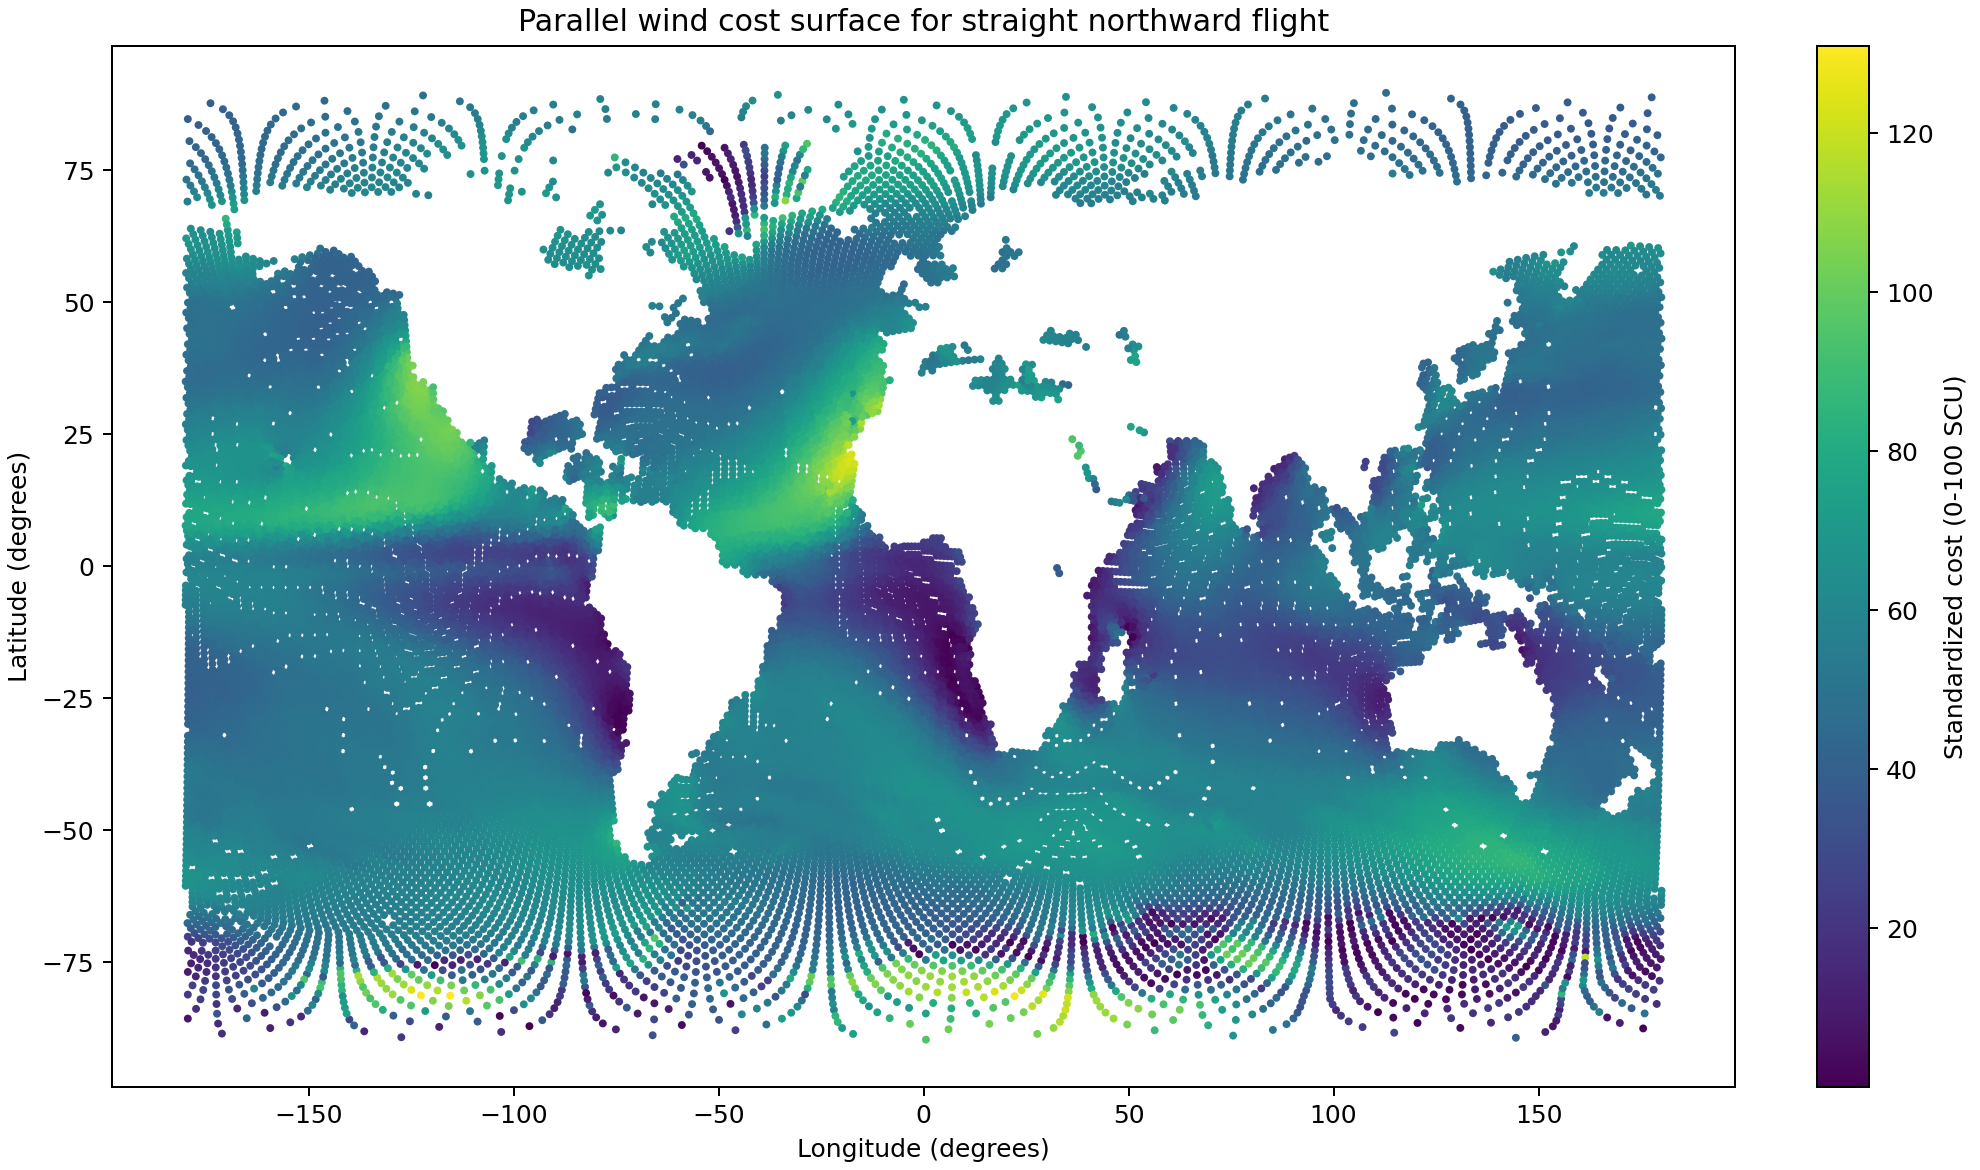
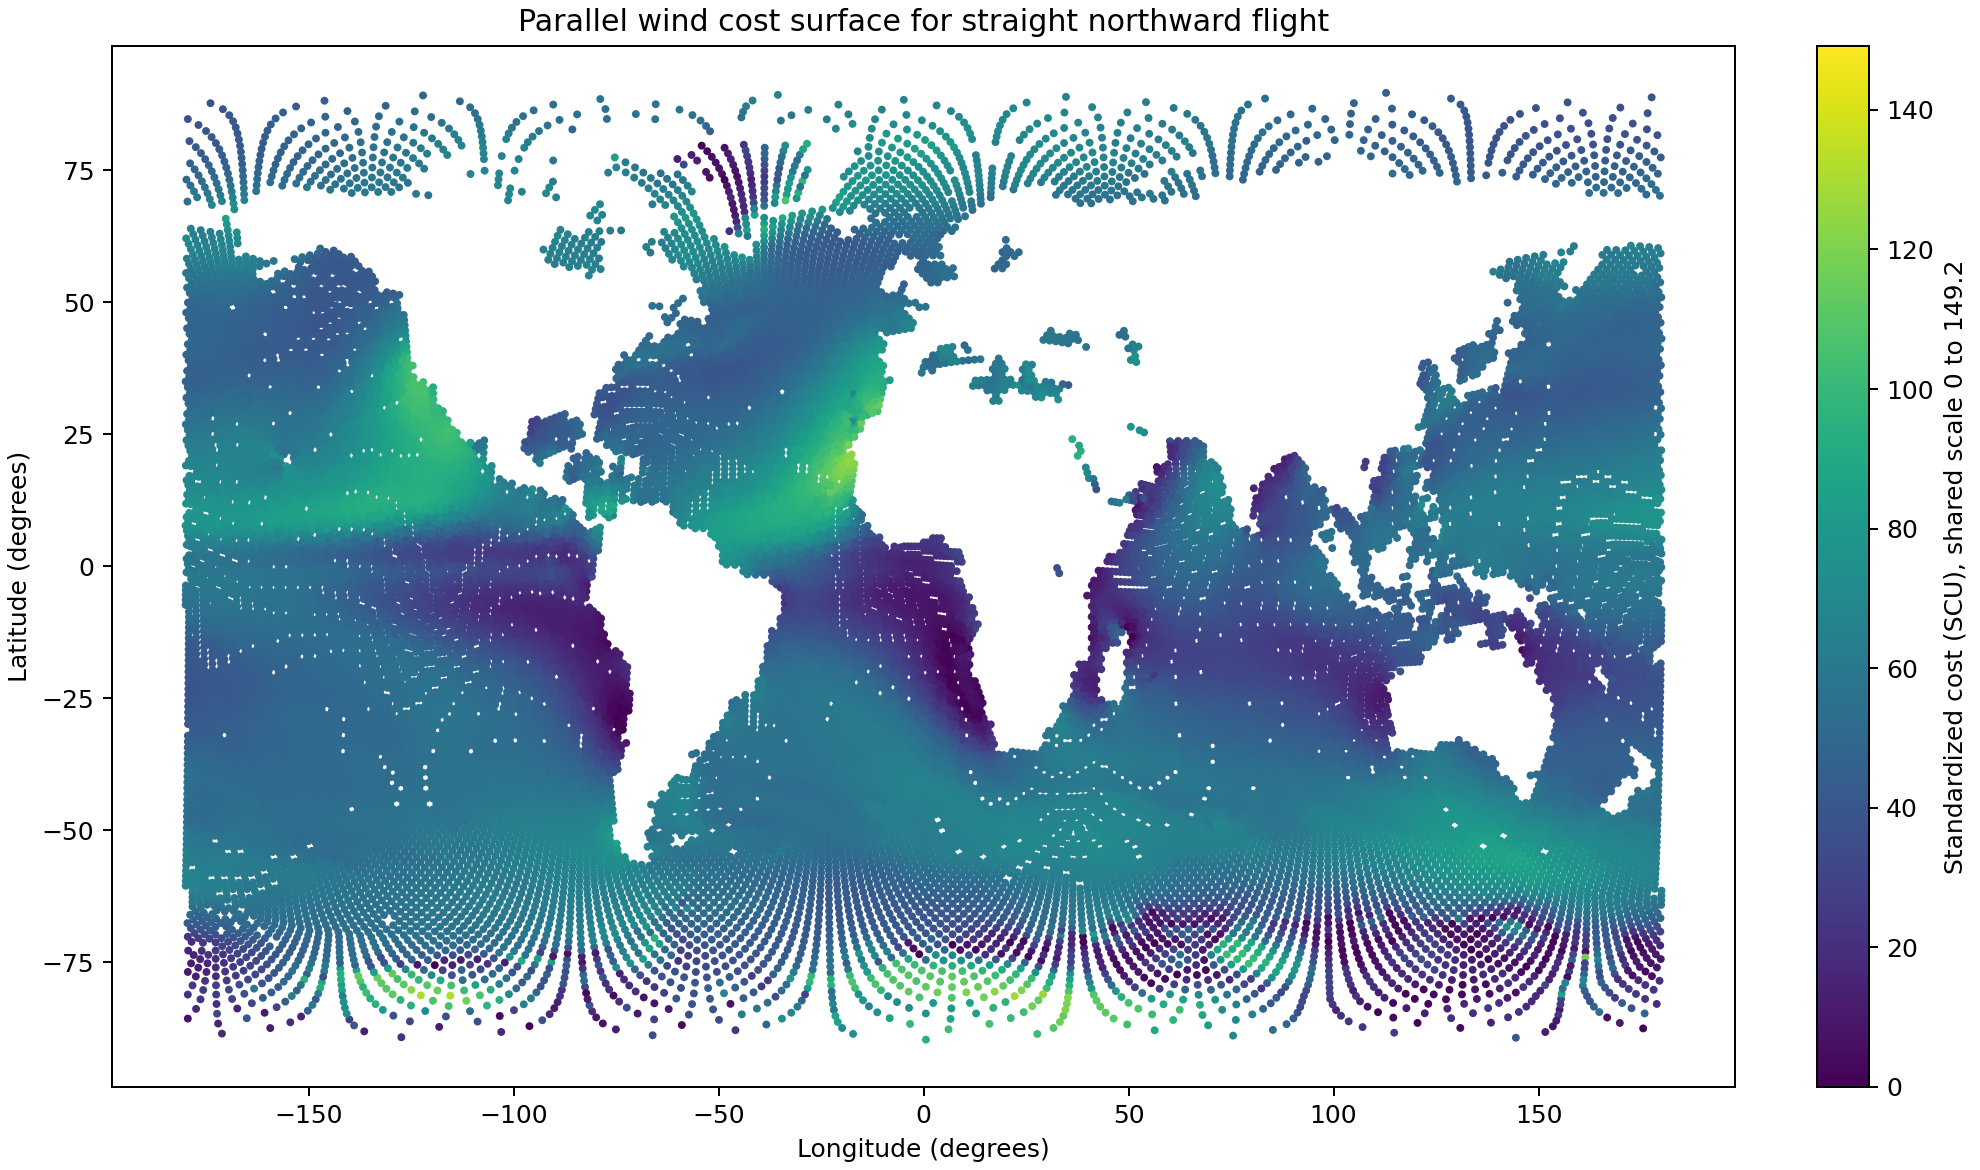
Unify component map support and scales

diff --git a/src/scripts/11_compute_h3_cost_components.py b/src/scripts/11_compute_h3_cost_components.py
@@ -95,10 +95,22 @@ def draw_component_map(
     output_path: Path,
     title: str,
     colorbar_label: str,
+    vmin: float,
+    vmax: float,
     cmap: str = "viridis",
 ) -> None:
     fig, ax = plt.subplots(figsize=(11, 6.5), constrained_layout=True)
-    sc = ax.scatter(df["lon"], df["lat"], c=df[value_col], s=10, cmap=cmap, linewidths=0)
+    plot_df = df.dropna(subset=[value_col]).copy()
+    sc = ax.scatter(
+        plot_df["lon"],
+        plot_df["lat"],
+        c=plot_df[value_col],
+        s=10,
+        cmap=cmap,
+        linewidths=0,
+        vmin=vmin,
+        vmax=vmax,
+    )
     ax.set_title(title)
     ax.set_xlabel("Longitude (degrees)")
     ax.set_ylabel("Latitude (degrees)")
@@ -200,11 +212,12 @@ def main() -> None:
     fig.savefig(SCATTER_PATH, dpi=150)
     plt.close(fig)
 
-    # Component maps at cell level. For wind maps, use a straight northward heading.
+    # Component maps at cell level. For visualization, use the wind footprint as the support mask.
     northward_support = env["v10"]
     northward_parallel_raw = np.abs(northward_support - percentile_99(northward_support))
     northward_crosswind_raw = np.abs(env["u10"])
     env_map = env[["h3_cell", "lon", "lat", "u10", "v10", "chlor_a"]].copy()
+    env_map["has_wind_support"] = ~(env_map[["u10", "v10"]].isna().all(axis=1))
     env_map["parallel_wind_cost_northward_raw"] = northward_parallel_raw
     env_map["crosswind_cost_northward_raw"] = northward_crosswind_raw
     northward_edge_distance = select_northward_edge_distance(out)
@@ -220,38 +233,68 @@ def main() -> None:
     env_map["distance_cost_std"] = standardize_to_100(env_map["northward_edge_distance_km"].fillna(0.0))
     env_map["food_cost_std"] = standardize_to_100(env_map["food_cost_raw"])
 
+    for col in [
+        "parallel_wind_cost_northward_std",
+        "crosswind_cost_northward_std",
+        "distance_cost_std",
+        "food_cost_std",
+    ]:
+        env_map.loc[~env_map["has_wind_support"], col] = np.nan
+
+    map_max = float(
+        np.nanmax(
+            env_map[
+                [
+                    "parallel_wind_cost_northward_std",
+                    "crosswind_cost_northward_std",
+                    "distance_cost_std",
+                    "food_cost_std",
+                ]
+            ].to_numpy()
+        )
+    )
+
     draw_component_map(
         env_map,
         "parallel_wind_cost_northward_std",
         MAP_WIND_PATH,
         "Parallel wind cost surface for straight northward flight",
-        "Standardized cost (0-100 SCU)",
+        f"Standardized cost (SCU), shared scale 0 to {map_max:.1f}",
+        0.0,
+        map_max,
     )
     draw_component_map(
         env_map,
         "crosswind_cost_northward_std",
         MAP_CROSSWIND_PATH,
         "Crosswind cost surface for straight northward flight",
-        "Standardized cost (0-100 SCU)",
+        f"Standardized cost (SCU), shared scale 0 to {map_max:.1f}",
+        0.0,
+        map_max,
     )
     draw_component_map(
         env_map,
         "distance_cost_std",
         MAP_DISTANCE_PATH,
         "Distance cost surface from outgoing edge closest to north",
-        "Standardized cost (0-100 SCU), based on edge distance in km",
+        f"Standardized cost (SCU), shared scale 0 to {map_max:.1f}",
+        0.0,
+        map_max,
     )
     draw_component_map(
         env_map,
         "food_cost_std",
         MAP_FOOD_PATH,
         "Food cost surface from chlorophyll-a",
-        "Standardized cost (0-100 SCU)",
+        f"Standardized cost (SCU), shared scale 0 to {map_max:.1f}",
+        0.0,
+        map_max,
     )
 
     legacy_ref = out["legacy_constant_distance_reference"].iloc[0]
     zero_chla_count = int((env["chlor_a"] <= 0).sum())
     positive_floor = float(env.loc[env["chlor_a"] > 0, "chlor_a"].min()) if (env["chlor_a"] > 0).any() else 1e-6
+    missing_support_count = int((~env_map["has_wind_support"]).sum())
     report = f'''# Compute H3 cost components
 
 ## Question
@@ -279,6 +322,8 @@ The corrected implementation now:
 Audit values:
 - zero or non-positive chlorophyll cells in H3 table: **{zero_chla_count}**
 - positive chlorophyll floor used for the log transform: **{positive_floor:.8f}**
+- cells outside the common wind-supported map footprint: **{missing_support_count}**
+- shared map color scale maximum: **{map_max:.3f} SCU**
 
 ## Method
 - compute directional edge costs for parallel wind, crosswind, true distance, and food
@@ -286,6 +331,8 @@ Audit values:
 - additionally produce four cell-level component maps for transparency
 - for the two wind component maps, assume a bird flying in a straight northward direction everywhere
 - for the distance map, assign to each cell the true distance of the outgoing edge whose bearing is closest to north
+- for visualization only, use the wind-data footprint as a common support mask across all four maps so unsupported cells are not mistaken for valid low or high costs
+- apply one shared color scale across all four maps, starting at 0 and ending at the maximum standardized cost present among the displayed map layers
 
 ## Key formulas used
 - movement direction comes from the edge bearing for the edge-level table
@@ -336,9 +383,13 @@ The four maps are also useful because they separate two different views of the m
 For the wind maps, the northward-flight assumption is only for visualizing the directional wind components as a global surface. The real graph still uses each actual edge bearing.
 For the distance map, each cell is assigned the true distance of its outgoing edge closest to north. This is also diagnostic rather than part of the routing graph itself, but it is a real edge quantity rather than an artificial cumulative construction.
 
+The pole issue in the earlier food map was not something I was happy with. It mixed genuinely poor-food cells with cells that simply lie outside the shared environmental support. Using the wind footprint as a visualization mask is the right fix for the maps, because it prevents unsupported cells from being visually interpreted as real food-cost values.
+
 ## Points to watch
 - the distance component in the routing model still represents true H3 edge length, which is an intentional refinement relative to the legacy constant-per-step distance term
 - the mapped northward distance surface is a separate diagnostic layer for interpretability, based on a real outgoing northward edge per cell
+- the common wind-footprint mask is a visualization choice for consistency and honesty across maps, not yet a modeling exclusion rule
+- the shared color scale makes map-to-map magnitude comparisons easier, but it also compresses contrast in components whose ranges are naturally narrower; that tradeoff is worth it here because you explicitly want comparability
 - the legacy constant distance reference extracted from the standardized wind term is **{legacy_ref:.3f}**, which provides a direct bridge back to the earlier formulation
 - the visual wind maps are diagnostic surfaces, not replacements for the directional edge-level calculations
 

diff --git a/results/reports/11_compute-h3-cost-components.md b/results/reports/11_compute-h3-cost-components.md
@@ -25,6 +25,8 @@ The corrected implementation now:
 Audit values:
 - zero or non-positive chlorophyll cells in H3 table: **1869**
 - positive chlorophyll floor used for the log transform: **0.02446900**
+- cells outside the common wind-supported map footprint: **11633**
+- shared map color scale maximum: **149.219 SCU**
 
 ## Method
 - compute directional edge costs for parallel wind, crosswind, true distance, and food
@@ -32,6 +34,8 @@ Audit values:
 - additionally produce four cell-level component maps for transparency
 - for the two wind component maps, assume a bird flying in a straight northward direction everywhere
 - for the distance map, assign to each cell the true distance of the outgoing edge whose bearing is closest to north
+- for visualization only, use the wind-data footprint as a common support mask across all four maps so unsupported cells are not mistaken for valid low or high costs
+- apply one shared color scale across all four maps, starting at 0 and ending at the maximum standardized cost present among the displayed map layers
 
 ## Key formulas used
 - movement direction comes from the edge bearing for the edge-level table
@@ -82,9 +86,13 @@ The four maps are also useful because they separate two different views of the m
 For the wind maps, the northward-flight assumption is only for visualizing the directional wind components as a global surface. The real graph still uses each actual edge bearing.
 For the distance map, each cell is assigned the true distance of its outgoing edge closest to north. This is also diagnostic rather than part of the routing graph itself, but it is a real edge quantity rather than an artificial cumulative construction.
 
+The pole issue in the earlier food map was not something I was happy with. It mixed genuinely poor-food cells with cells that simply lie outside the shared environmental support. Using the wind footprint as a visualization mask is the right fix for the maps, because it prevents unsupported cells from being visually interpreted as real food-cost values.
+
 ## Points to watch
 - the distance component in the routing model still represents true H3 edge length, which is an intentional refinement relative to the legacy constant-per-step distance term
 - the mapped northward distance surface is a separate diagnostic layer for interpretability, based on a real outgoing northward edge per cell
+- the common wind-footprint mask is a visualization choice for consistency and honesty across maps, not yet a modeling exclusion rule
+- the shared color scale makes map-to-map magnitude comparisons easier, but it also compresses contrast in components whose ranges are naturally narrower; that tradeoff is worth it here because you explicitly want comparability
 - the legacy constant distance reference extracted from the standardized wind term is **49.999**, which provides a direct bridge back to the earlier formulation
 - the visual wind maps are diagnostic surfaces, not replacements for the directional edge-level calculations
 
